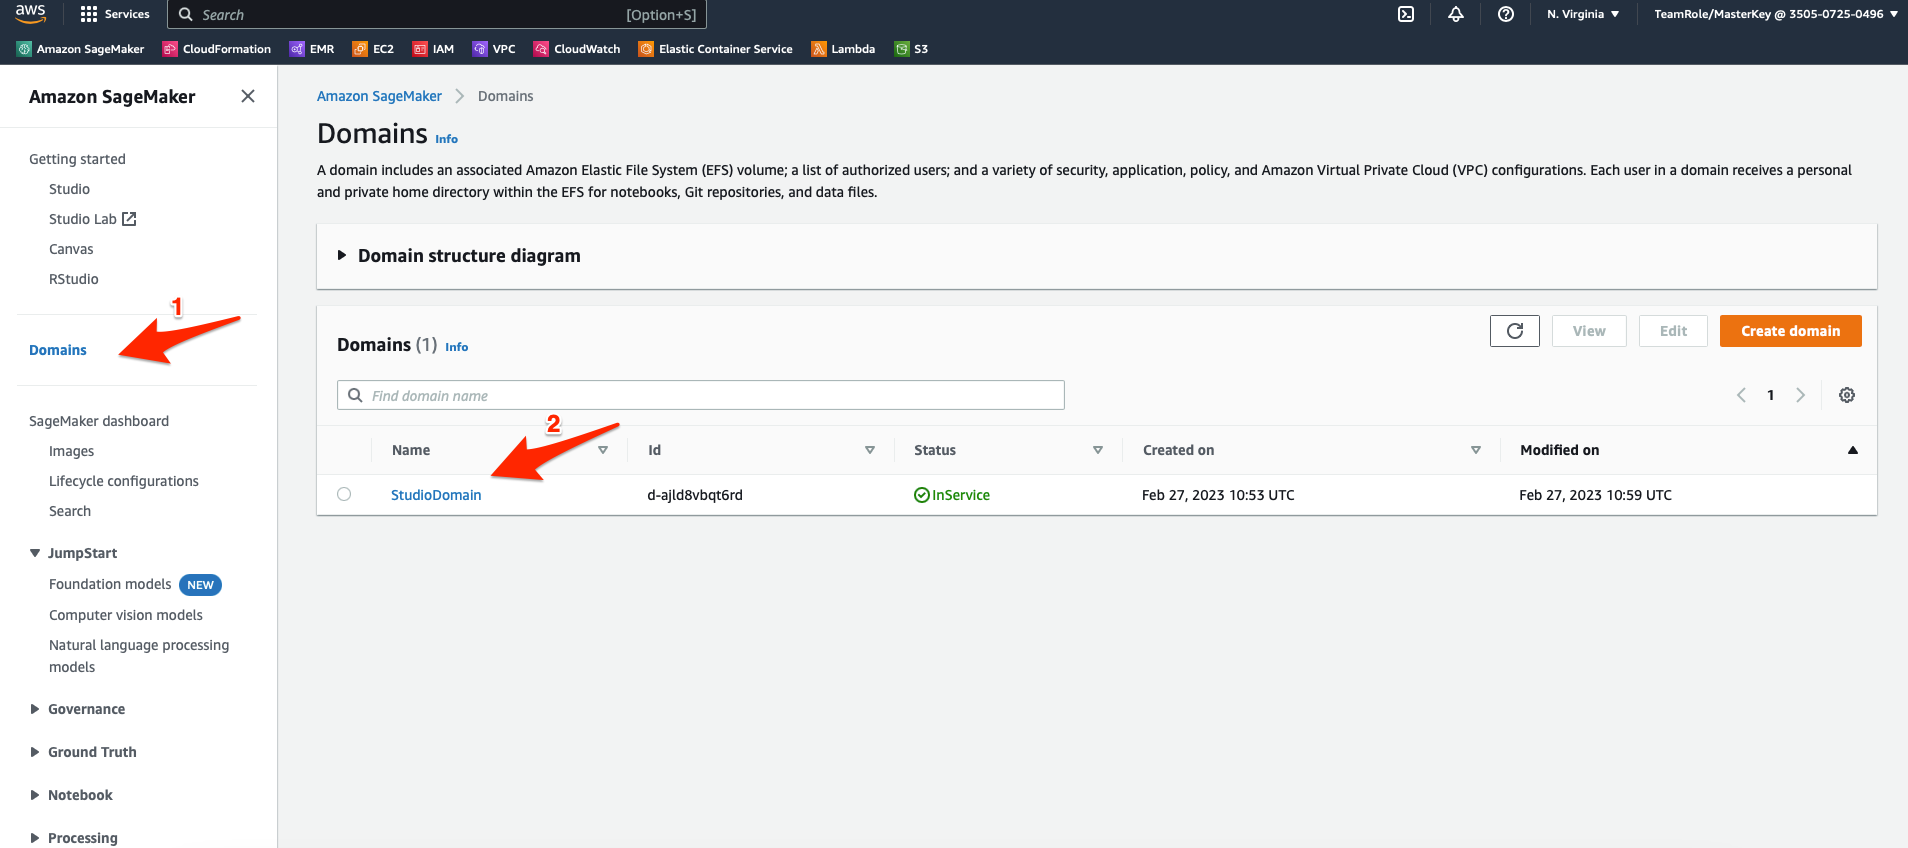
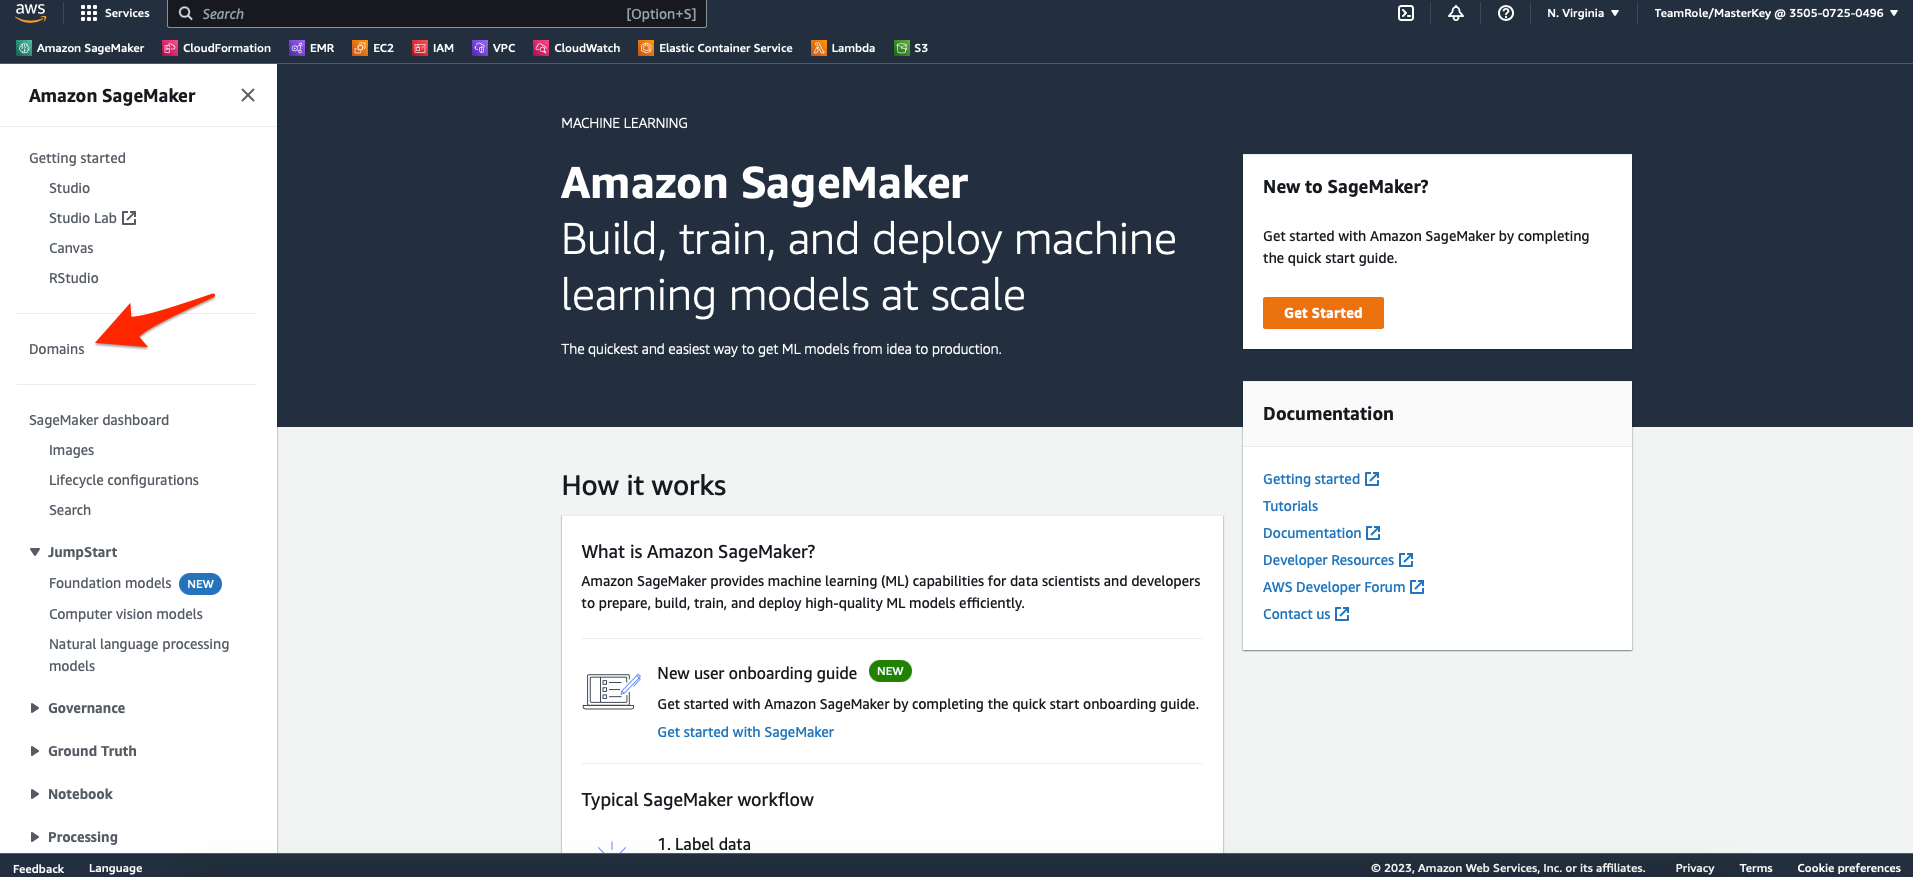
Updated READMe.md

diff --git a/labs/01_configure_sagemaker_studio/README.md b/labs/01_configure_sagemaker_studio/README.md
@@ -63,7 +63,7 @@ In the AWS Console search bar, type `SageMaker` and select `Amazon SageMaker` to
 
 ![SageMaker Console](img/setup_aws_console.png). 
 
-Now, click on `Domains` and then on `StudioDomain`:
+Now, click on `Domains`:
 
 ![SageMaker Studio](img/open_sm_studio_1.png)
 
